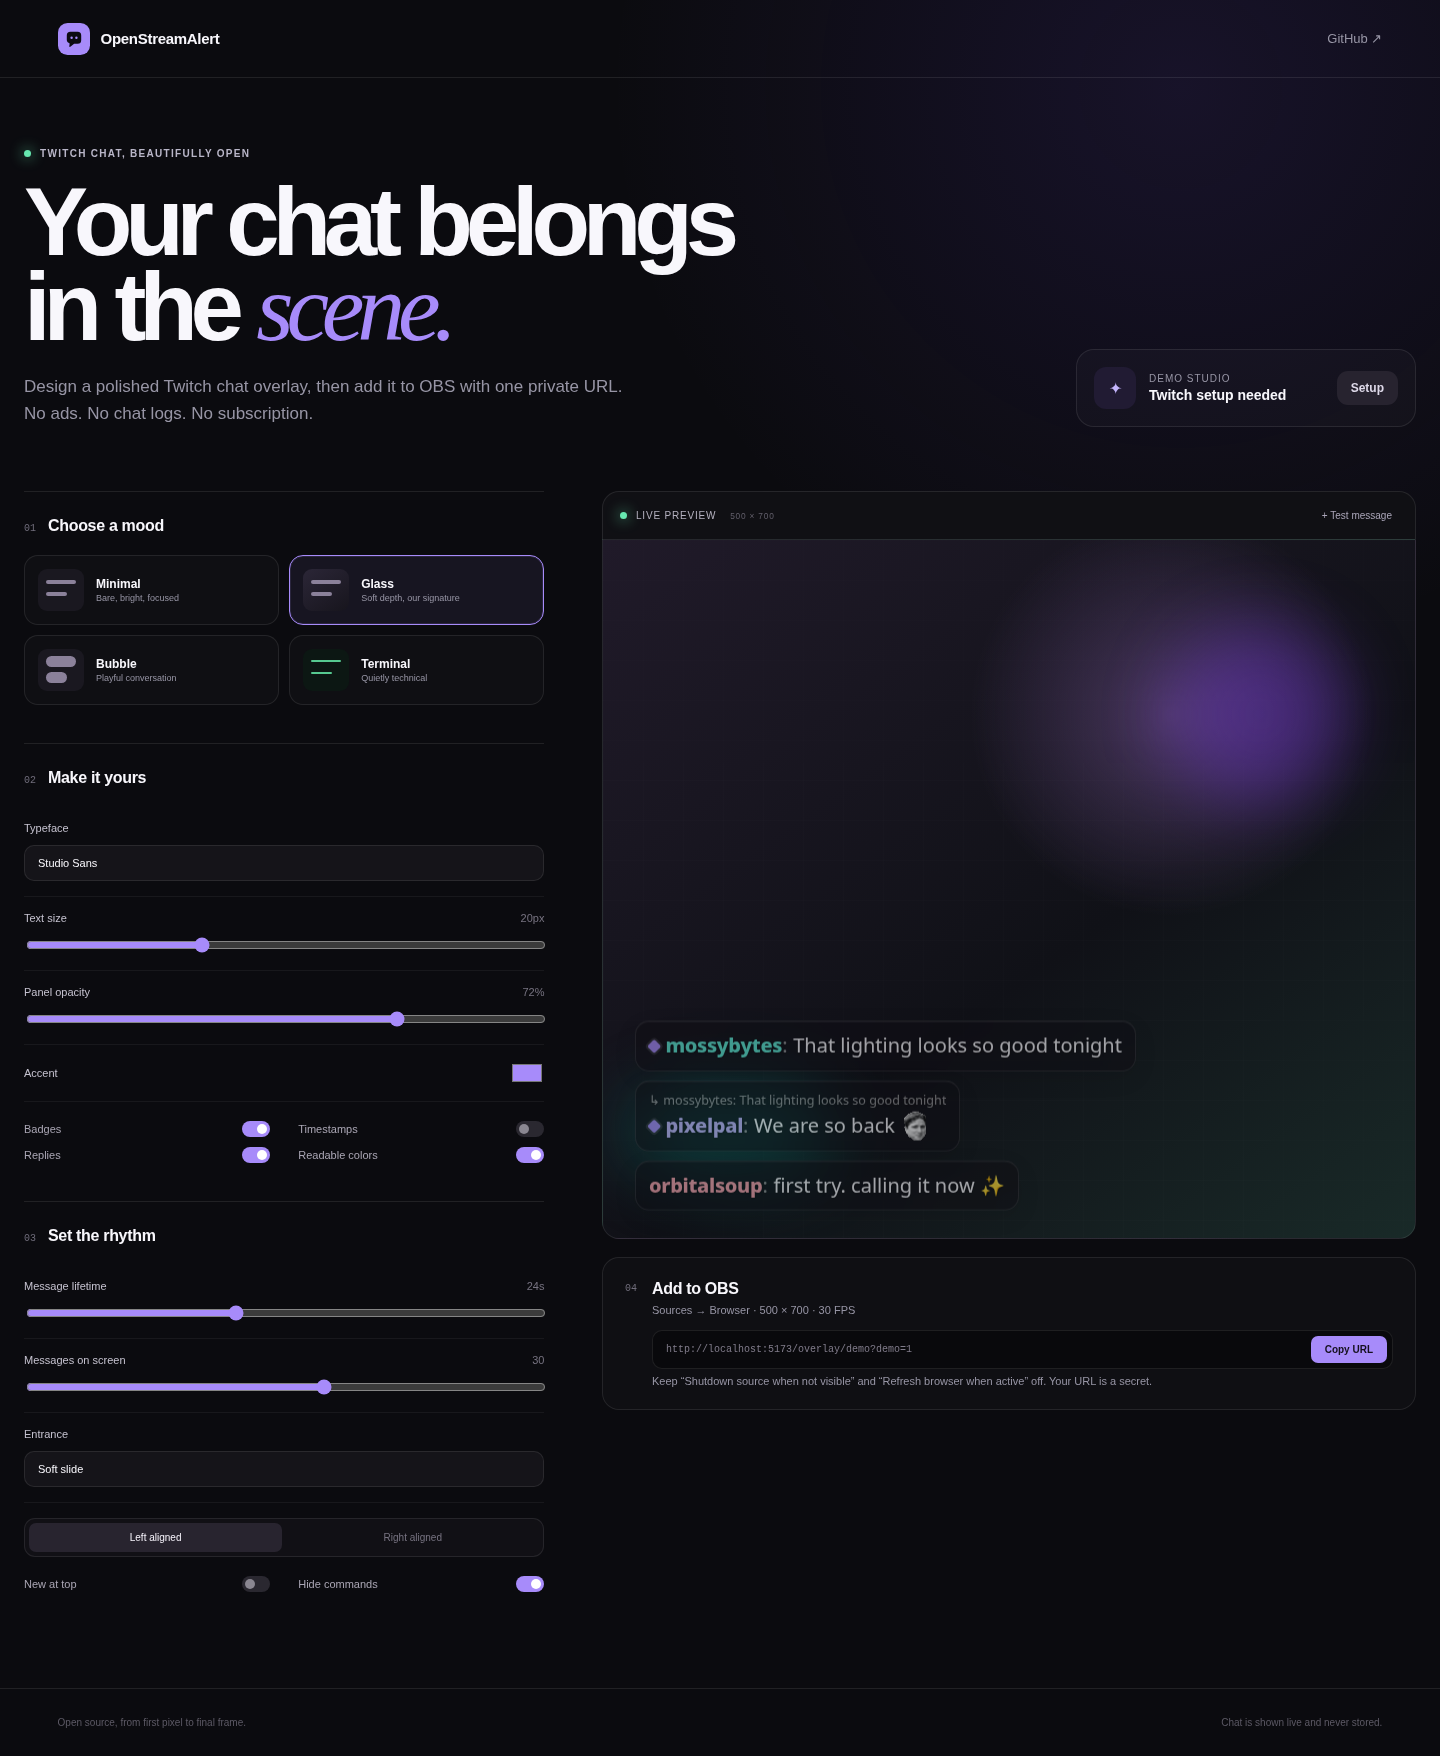
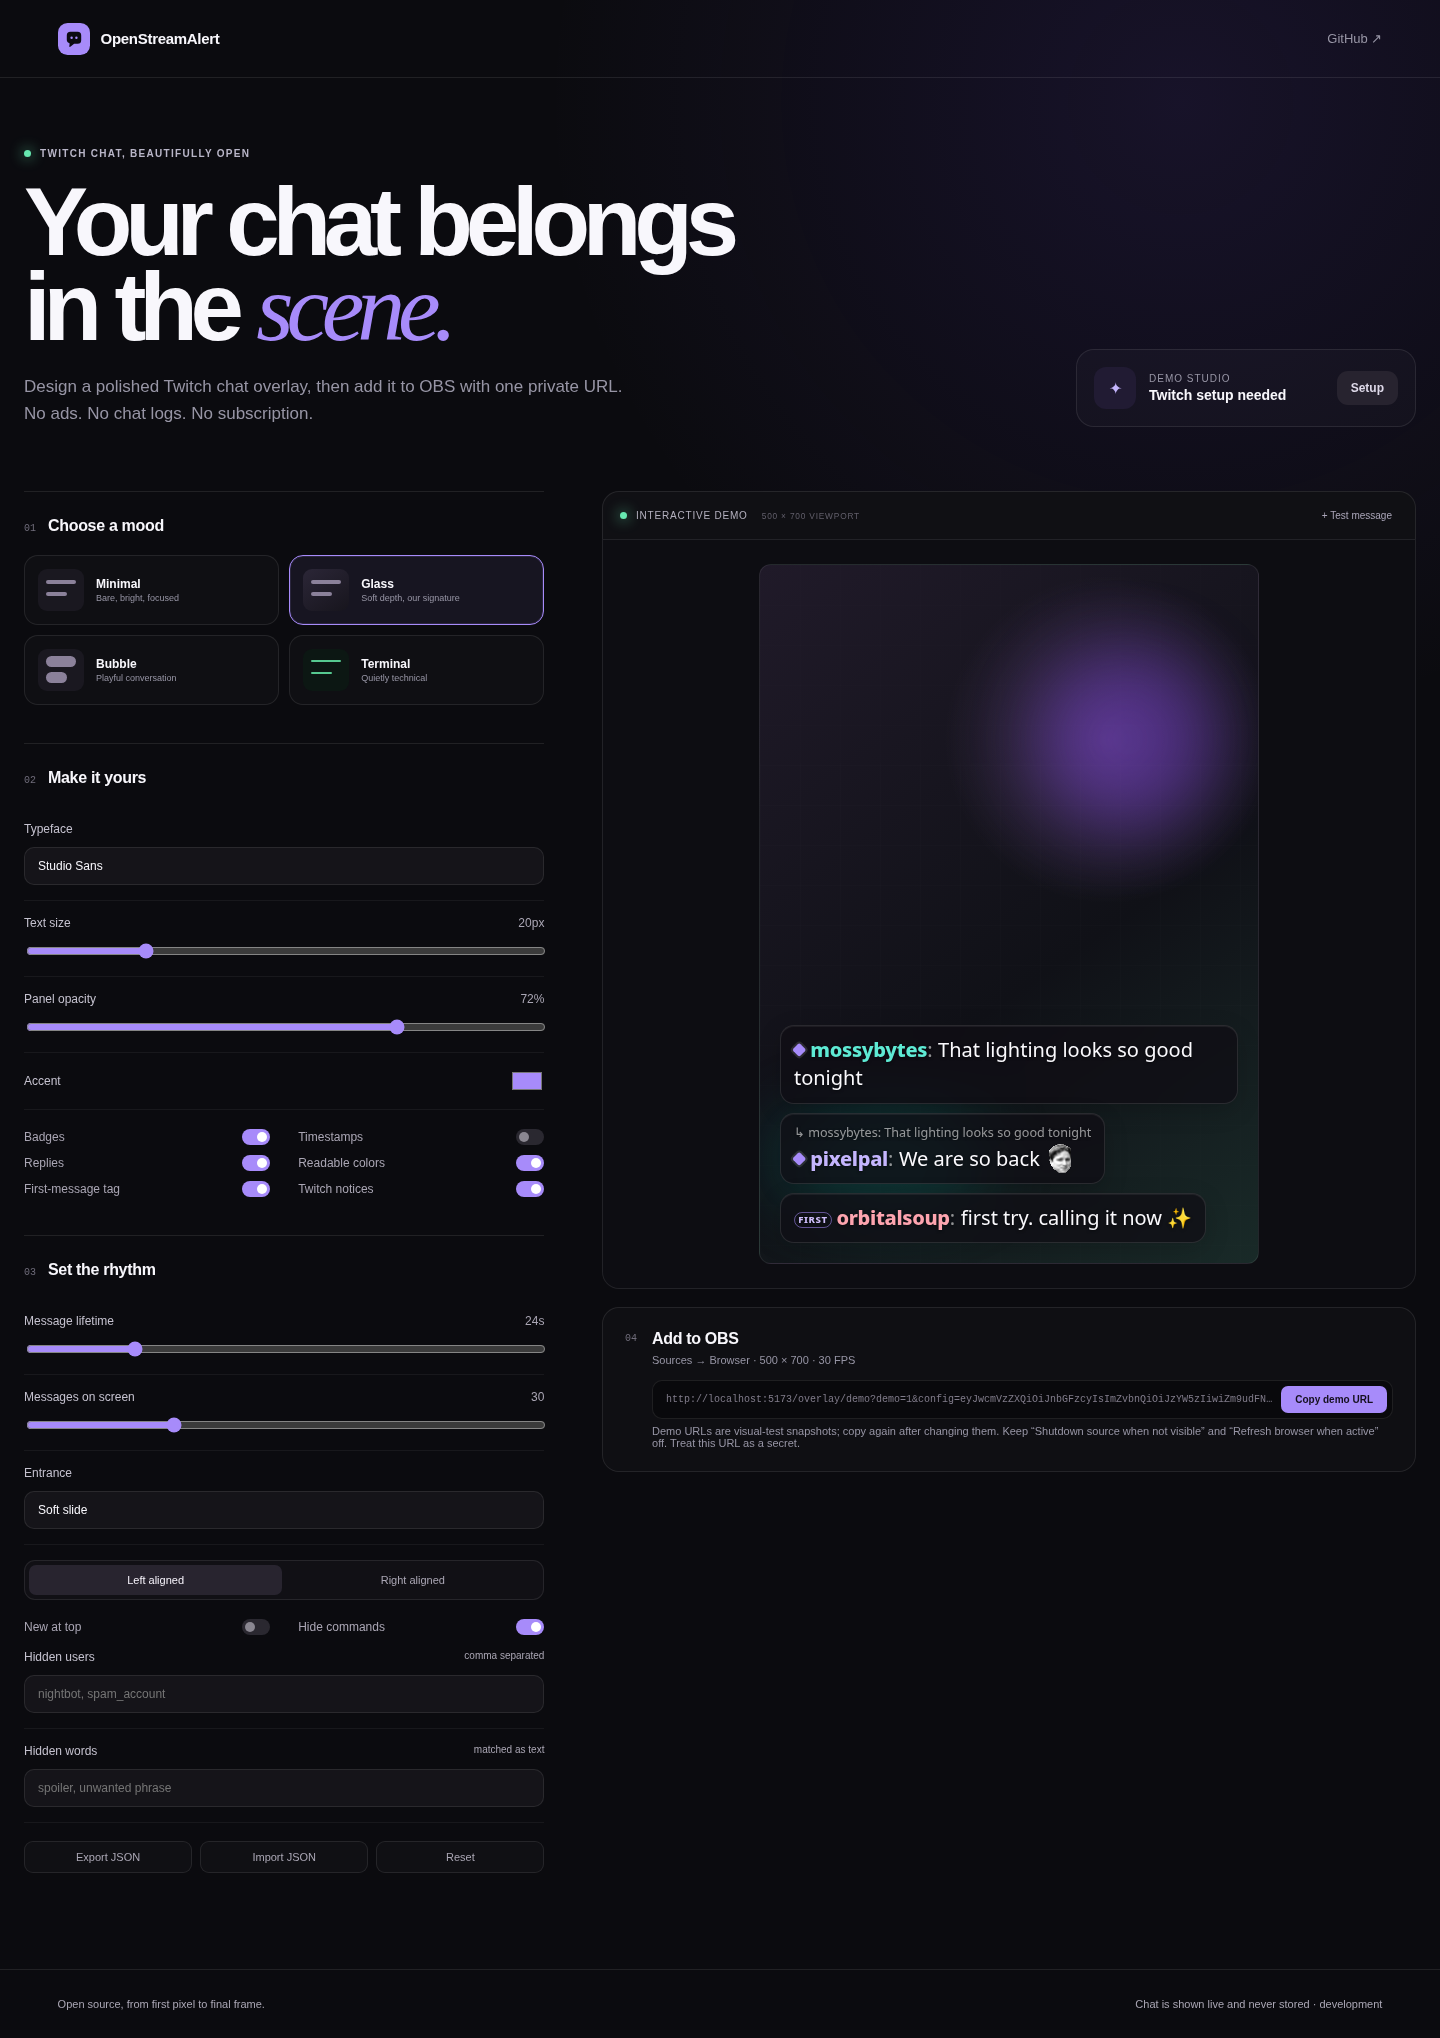
feat: publish a credential-free interactive demo

diff --git a/src/studio/Studio.tsx b/src/studio/Studio.tsx
@@ -72,6 +72,8 @@ const authErrors: Record<string, string> = {
     "This Twitch account is not allowed to use this private instance.",
 };
 
+const publicDemo = import.meta.env.VITE_PUBLIC_DEMO === "1";
+
 function Toggle({
   checked,
   onChange,
@@ -175,6 +177,17 @@ export function Studio() {
   }, [status?.account]);
 
   async function loadStatus() {
+    if (publicDemo) {
+      setStatus({
+        configured: false,
+        account: null,
+        overlay: null,
+        connection: null,
+        version: "public-demo",
+      });
+      setFeedStatus({ state: "idle" });
+      return;
+    }
     try {
       const response = await fetch("/api/status");
       if (!response.ok) throw new Error("The studio server is unavailable.");
@@ -251,7 +264,7 @@ export function Studio() {
   function overlayUrl() {
     return (
       status?.overlay?.url ??
-      `${window.location.origin}/overlay/demo?demo=1&config=${encodeSettings(settings)}`
+      `${new URL("overlay/demo", document.baseURI).toString()}?demo=1&config=${encodeSettings(settings)}`
     );
   }
 
@@ -468,12 +481,18 @@ export function Studio() {
                 <span className="twitch-icon">✦</span>
                 <div>
                   <small>
-                    {status.configured ? "Ready when you are" : "Demo studio"}
+                    {status.configured
+                      ? "Ready when you are"
+                      : publicDemo
+                        ? "Public demo"
+                        : "Demo studio"}
                   </small>
                   <strong>
                     {status.configured
                       ? "Connect Twitch"
-                      : "Twitch setup needed"}
+                      : publicDemo
+                        ? "Try every design control"
+                        : "Twitch setup needed"}
                   </strong>
                 </div>
                 {status.configured ? (

diff --git a/tests/demo/public-demo.spec.ts b/tests/demo/public-demo.spec.ts
@@ -1,0 +1,34 @@
+import { expect, test } from "@playwright/test";
+
+test("public demo is self-contained and its overlay survives a direct load", async ({
+  page,
+}) => {
+  const remoteRequests: string[] = [];
+  page.on("request", (request) => {
+    const url = new URL(request.url());
+    if (
+      url.origin !== "http://127.0.0.1:4174" &&
+      url.hostname !== "static-cdn.jtvnw.net"
+    )
+      remoteRequests.push(request.url());
+  });
+
+  await page.goto("./");
+  await expect(page.getByText("Public demo", { exact: true })).toBeVisible();
+  await expect(page.getByText("Try every design control")).toBeVisible();
+  await expect(
+    page.getByRole("heading", { name: /Your chat belongs/ }),
+  ).toBeVisible();
+
+  await page.getByRole("button", { name: "Terminal" }).click();
+  await page.getByRole("slider", { name: "Text size" }).fill("31");
+  const overlayUrl = await page.locator(".url-field code").textContent();
+  expect(overlayUrl).toContain("/openstreamalert/overlay/demo?demo=1&config=");
+  expect(remoteRequests).toEqual([]);
+
+  await page.goto(overlayUrl!);
+  await expect(page.locator(".chat-canvas")).toHaveClass(/preset-terminal/);
+  await expect(page.locator(".chat-canvas")).toHaveCSS("font-size", "31px");
+  await expect(page.locator("html")).toHaveAttribute("data-route", "overlay");
+  expect(remoteRequests).toEqual([]);
+});

diff --git a/playwright.demo.config.ts b/playwright.demo.config.ts
@@ -1,0 +1,19 @@
+import { defineConfig, devices } from "@playwright/test";
+
+export default defineConfig({
+  testDir: "./tests/demo",
+  fullyParallel: true,
+  retries: process.env.CI ? 1 : 0,
+  reporter: process.env.CI ? [["github"], ["html", { open: "never" }]] : "list",
+  use: {
+    baseURL: "http://127.0.0.1:4174/openstreamalert/",
+    trace: "on-first-retry",
+  },
+  webServer: {
+    command:
+      "VITE_PUBLIC_DEMO=1 VITE_BASE_PATH=/openstreamalert/ npm run build && cp dist/client/index.html dist/client/404.html && npx vite preview --outDir dist/client --base /openstreamalert/ --host 127.0.0.1 --port 4174 --strictPort",
+    url: "http://127.0.0.1:4174/openstreamalert/",
+    reuseExistingServer: !process.env.CI,
+  },
+  projects: [{ name: "chromium", use: { ...devices["Desktop Chrome"] } }],
+});

diff --git a/src/main.tsx b/src/main.tsx
@@ -4,7 +4,7 @@ import { Studio } from "./studio/Studio";
 import { OverlayPage } from "./overlay/OverlayPage";
 import "./styles.css";
 
-const isOverlay = window.location.pathname.startsWith("/overlay/");
+const isOverlay = window.location.pathname.includes("/overlay/");
 document.documentElement.dataset.route = isOverlay ? "overlay" : "studio";
 
 createRoot(document.getElementById("root")!).render(

diff --git a/src/styles.css b/src/styles.css
@@ -883,9 +883,11 @@ footer {
 .preset-terminal .separator::before {
   content: ">";
   color: var(--accent);
-  margin-right: 0.25em;
+  margin: 0 0.25em;
+  font-size: var(--font-size);
 }
 .preset-terminal .separator {
+  margin-right: 0;
   font-size: 0;
 }
 .overlay-status {

diff --git a/vite.config.ts b/vite.config.ts
@@ -2,6 +2,7 @@ import { defineConfig } from "vite";
 import react from "@vitejs/plugin-react";
 
 export default defineConfig({
+  base: process.env.VITE_BASE_PATH ?? "/",
   plugins: [react()],
   build: { outDir: "dist/client", emptyOutDir: true },
   server: { port: 5173 },

diff --git a/README.md b/README.md
@@ -40,9 +40,10 @@ analytics, and does not put Twitch credentials in the OBS URL.
 
 ## Quick start
 
-You need [Node.js 24+](https://nodejs.org/) and a Twitch application. In the
-[Twitch developer console](https://dev.twitch.tv/console/apps), create an app
-with this OAuth redirect URL:
+You need [Node.js 24+](https://nodejs.org/). The credential-free design studio
+works immediately; live chat also needs a Twitch application. In the [Twitch
+developer console](https://dev.twitch.tv/console/apps), create an app with this
+OAuth redirect URL:
 
 ```text
 http://localhost:5173/auth/callback
@@ -100,6 +101,14 @@ SQLite data lives in the named `openstreamalert-data` volume. Put a TLS reverse
 proxy in front of the app for any non-local deployment. See the
 [deployment and OBS guide](docs/SETUP.md) before exposing an instance publicly.
 
+To publish only the interactive design demo, leave all three Twitch credential
+fields and `ENCRYPTION_KEY` empty. The same production image then serves presets,
+preview messages, import/export, and demo Browser Source URLs without OAuth,
+accounts, or live chat. Set the public `APP_URL` and use HTTPS exactly as you
+would for a connected deployment.
+
+For the zero-server GitHub Pages variant, see the [public demo guide](docs/PUBLIC_DEMO.md).
+
 ## How it works
 
 ```mermaid
@@ -128,6 +137,7 @@ and the source-backed [research notes](docs/RESEARCH.md) for the details.
 - [Architecture and trust boundaries](docs/ARCHITECTURE.md)
 - [Privacy and data lifecycle](docs/PRIVACY.md)
 - [Product scope and principles](docs/PRODUCT.md)
+- [Credential-free public demo deployment](docs/PUBLIC_DEMO.md)
 - [Release gates and live acceptance checklist](docs/RELEASING.md)
 - [Contributing](CONTRIBUTING.md) and [security policy](SECURITY.md)
 
@@ -159,6 +169,7 @@ npm run lint
 npm test             # unit tests
 npm run build
 npm run test:e2e     # real Chromium tests (run playwright install first)
+npm run test:demo    # static GitHub Pages build and direct overlay route
 ```
 
 OpenStreamAlert is available under the [MIT License](LICENSE).

diff --git a/docs/PUBLIC_DEMO.md b/docs/PUBLIC_DEMO.md
@@ -1,0 +1,41 @@
+# Public demo
+
+The project includes a credential-free static build of the complete design
+studio. It lets visitors try every theme and control, export configuration, and
+open or copy a responsive demo Browser Source without Twitch credentials or an
+OpenStreamAlert server. The fixture's native emote image is fetched from
+Twitch's public `static-cdn.jtvnw.net` image host; no Twitch API or OAuth endpoint
+is contacted.
+
+The demo deliberately cannot connect an account, persist settings, or display
+live chat. Its copied overlay URL is a self-contained visual snapshot whose
+configuration is encoded in the URL. It contains no account identifier, OAuth
+credential, or server-side overlay key.
+
+## GitHub Pages deployment
+
+The `Public demo` workflow builds the studio with `VITE_PUBLIC_DEMO=1` and a
+repository-relative asset base. It is skipped while the repository is private.
+After making the repository public:
+
+1. In **Settings → Pages**, choose **GitHub Actions** as the source.
+2. Run the **Public demo** workflow once, or push to `main`.
+3. Verify the URL reported by the workflow at desktop and mobile widths.
+4. Open a copied demo URL directly and confirm that the transparent overlay
+   renders after a hard refresh.
+
+The workflow copies `index.html` to `404.html` so GitHub Pages can serve the
+client-routed `/overlay/demo` path. All workflow actions are pinned to immutable
+commits. No Twitch credentials or repository secrets are used.
+
+## Test the static build locally
+
+```bash
+VITE_PUBLIC_DEMO=1 VITE_BASE_PATH=/openstreamalert/ npm run build
+cp dist/client/index.html dist/client/404.html
+npx vite preview --outDir dist/client --base /openstreamalert/
+```
+
+Visit the preview URL under `/openstreamalert/`. The production self-hosted app
+remains the supported path for real Twitch chat; the public demo is a product
+tour and OBS visual test only.

diff --git a/docs/SETUP.md b/docs/SETUP.md
@@ -48,6 +48,13 @@ docker compose up -d --build
 docker compose logs -f openstreamalert
 ```
 
+### Public demo without Twitch credentials
+
+A design-only server needs no Twitch application. Leave all Twitch fields and
+`ENCRYPTION_KEY` empty, set the public HTTPS `APP_URL`, and start normally;
+`/readyz` reports `mode: "demo"` and live chat remains disabled. For a static,
+zero-server deployment, use the [GitHub Pages public demo](PUBLIC_DEMO.md).
+
 Compose binds to `127.0.0.1` by default so the unencrypted application is not
 accidentally exposed to the network. Set `BIND_ADDRESS` in `.env` only when a
 trusted firewall or reverse proxy requires another interface. `PORT` controls
